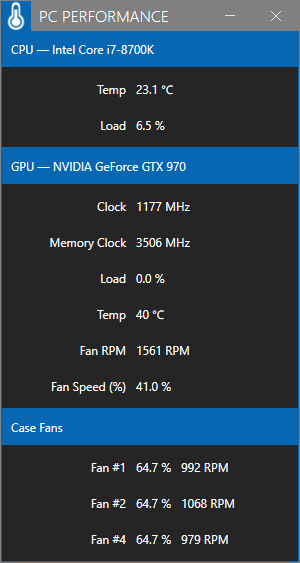
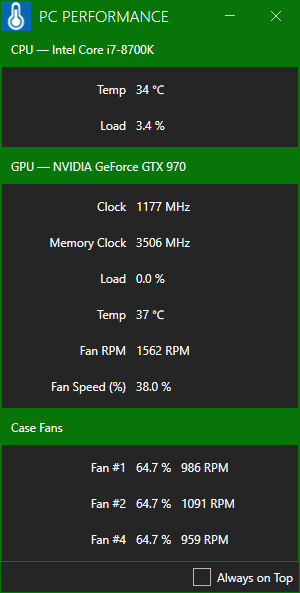
Change color

diff --git a/PcPerformance/App.xaml b/PcPerformance/App.xaml
@@ -11,7 +11,7 @@
                 <ResourceDictionary Source="pack://application:,,,/MahApps.Metro;component/Styles/Fonts.xaml" />
                 <!-- Theme setting -->
                 <ResourceDictionary
-                    Source="pack://application:,,,/MahApps.Metro;component/Styles/Themes/Dark.Blue.xaml" />
+                    Source="pack://application:,,,/MahApps.Metro;component/Styles/Themes/Dark.Emerald.xaml" />
             </ResourceDictionary.MergedDictionaries>
         </ResourceDictionary>
     </Application.Resources>
